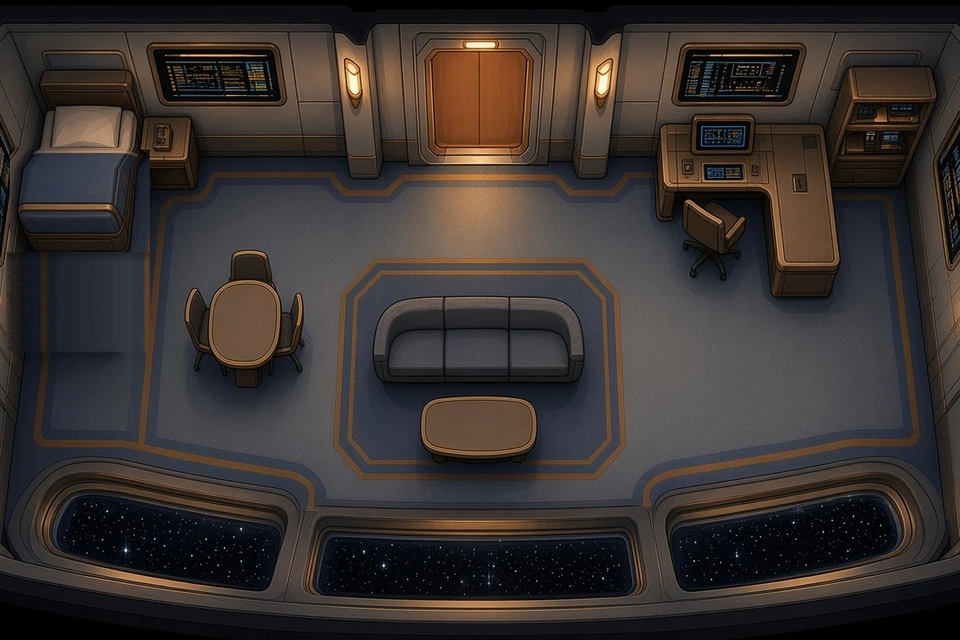
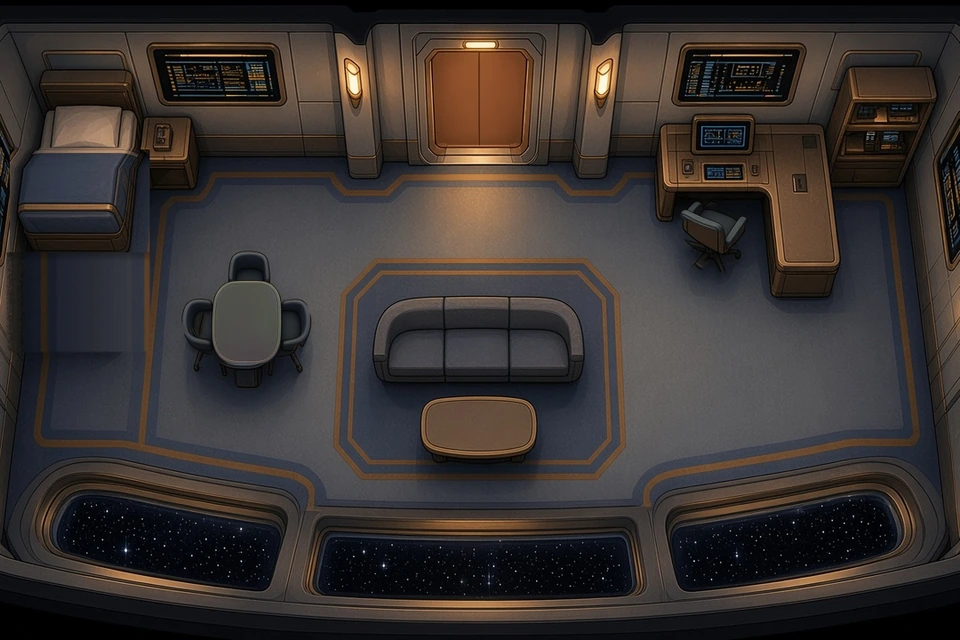
Build 12402cf: Lounge v2, Berthing v2 + lift door, cabins v5

Changed region(s): [[0.1875, 0.375, 0.3438, 0.5938], [0.6875, 0.3125, 0.7812, 0.375]]

diff --git a/js/data.js b/js/data.js
@@ -101,7 +101,7 @@ export const DECKS = {
   },
   berthing: {
     name: "Berthing", plate: "deck-berthing", glow: [0.80, 0.16, "255,196,110"],
-    lift: { x: 0.555, y: 0.89, mx: 0.555, my: 0.79 },
+    lift: { x: 0.612, y: 0.89, mx: 0.612, my: 0.79 },   // P22: the painted turbolift door seam on the Berthing v2 plate (x 1175/1920)
     // cleaned plate (decks_berthing_fix_v1): the starboard bench + alcove wall end now sit at y .665-.837 (block) and the floor
     // under them, with the opening (744,534,42,61) into the starboard bay, is walkable (base)
     base: [R(0.045, 0.385, 0.96, 0.515), R(0.735, 0.045, 0.955, 0.29), R(0.79, 0.29, 0.965, 0.905), R(0.44, 0.83, 0.80, 0.97),
@@ -127,12 +127,25 @@ export const DECKS = {
     name: "Mess & Bar", plate: "deck-lounge", glow: [0.42, 0.27, "255,190,110"],
     lift: { x: 0.145, y: 0.6625, mx: 0.145, my: 0.555 },
     base: [R(0.25, 0.20, 0.815, 0.945), R(0.035, 0.45, 0.235, 0.745), R(0.235, 0.615, 0.285, 0.685)],
-    blocks: [R(0.225, 0.205, 0.625, 0.36), R(0.25, 0.015, 0.645, 0.205), R(0.365, 0.415, 0.43, 0.485), R(0.495, 0.415, 0.56, 0.485),
-      R(0.62, 0.41, 0.685, 0.48), R(0.37, 0.585, 0.435, 0.655), R(0.515, 0.58, 0.58, 0.65), R(0.66, 0.575, 0.725, 0.645),
+    // Lounge v2 (sprites/deck_lounge_v2/out/lounge_spots.json): the six tables are blocks_norm_tables (chair carves included); bar, galley, planters kept
+    blocks: [R(0.225, 0.205, 0.625, 0.36), R(0.25, 0.015, 0.645, 0.205), R(0.3583, 0.3797, 0.4292, 0.525), R(0.4854, 0.3797, 0.5563, 0.525),
+      R(0.6125, 0.375, 0.6833, 0.5203), R(0.3656, 0.5516, 0.4365, 0.6969), R(0.5094, 0.5469, 0.5802, 0.6922), R(0.6552, 0.5422, 0.726, 0.6875),
       R(0.485, 0.73, 0.855, 0.955)],
     nodes: {
-      // standing high-top tables (v2 art): the Lt eats standing just north of the middle top-row table, facing it
-      mess: { name: "Mess Table", chip: "Mess Table", x: 0.525, y: 0.4125, mx: 0.521, my: 0.448, rest: 5, face: "down" },
+      // Lounge v2: six seated tables, every chair faces down (south). The mess node is table 2's chair (sit and eat); the other
+      // five are chip-less tap-only seats (ambient crew sit in them via spot.seat). x/y = stand spot, mx/my = hip.
+      mess: { name: "Mess Table", chip: "Mess Table", x: 0.5667, y: 0.4281, mx: 0.5208, my: 0.4156, rest: 5, face: "down",
+        seat: { at: [0.5208, 0.4156], face: "down", hip: { down: [0, 0], up: [0, 0] }, stand: [0.5667, 0.4281] } },
+      table1: { name: "Table 1", x: 0.4396, y: 0.4281, mx: 0.3937, my: 0.4156, face: "down",
+        seat: { at: [0.3937, 0.4156], face: "down", hip: { down: [0, 0], up: [0, 0] }, stand: [0.4396, 0.4281] } },
+      table3: { name: "Table 3", x: 0.6937, y: 0.4234, mx: 0.6479, my: 0.4109, face: "down",
+        seat: { at: [0.6479, 0.4109], face: "down", hip: { down: [0, 0], up: [0, 0] }, stand: [0.6937, 0.4234] } },
+      table4: { name: "Table 4", x: 0.4469, y: 0.6, mx: 0.401, my: 0.5875, face: "down",
+        seat: { at: [0.401, 0.5875], face: "down", hip: { down: [0, 0], up: [0, 0] }, stand: [0.4469, 0.6] } },
+      table5: { name: "Table 5", x: 0.5906, y: 0.5953, mx: 0.5448, my: 0.5828, face: "down",
+        seat: { at: [0.5448, 0.5828], face: "down", hip: { down: [0, 0], up: [0, 0] }, stand: [0.5906, 0.5953] } },
+      table6: { name: "Table 6", x: 0.6448, y: 0.5906, mx: 0.6906, my: 0.5781, face: "down",
+        seat: { at: [0.6906, 0.5781], face: "down", hip: { down: [0, 0], up: [0, 0] }, stand: [0.6448, 0.5906] } },
       bar: { name: "Bar Counter", chip: "Bar Counter", x: 0.4425, y: 0.3375, mx: 0.4425, my: 0.27, rest: 2.5 },
     },
   },
@@ -493,11 +506,17 @@ export const DECK_OCCL = {
   // end (y 533) has the opening below it (walkers in front) and the starboard corridor / bay beside it, so it stays uncut too.
   berthing: { items: [] },
   // Lounge (cut from deck-lounge): the south jamb of the lobby doorway. Lobby feet reach y ~472, past the jamb's top (~465), so it
-  // hides the feet of a walker behind it. Elsewhere the masks keep feet north of (or beside) the props: the six tables' carve
+  // hides the feet of a walker behind it (Lounge v2: the artist's hires cut, plus the six table fronts over the seated legs). Elsewhere the masks keep feet north of (or beside) the props: the six tables' carve
   // keeps feet off the tabletops (row 16 centres 4 px short of the top edge), the planters' leaves start ~12 px below the floor's
   // south edge, the bar stools and the lift-lobby pillar / door leaf are only ever beside a walker.
   lounge: { items: [
-    { id: "lobby_jamb", poly: [[204, 466], [212, 463], [238, 463], [242, 470], [242, 500], [204, 500]], baseY: 495 },
+    { id: "lobby_jamb", src: "fg-lounge-lobby_jamb", crop: true, box: [202, 459, 246, 502], baseY: 495 },
+    { id: "table1", src: "fg-lounge-table1", crop: true, box: [346, 273, 411, 315], baseY: 315, seats: ["table1"] },
+    { id: "table2", src: "fg-lounge-table2", crop: true, box: [468, 273, 533, 315], baseY: 315, seats: ["mess"] },
+    { id: "table3", src: "fg-lounge-table3", crop: true, box: [590, 270, 655, 312], baseY: 312, seats: ["table3"] },
+    { id: "table4", src: "fg-lounge-table4", crop: true, box: [353, 383, 418, 425], baseY: 425, seats: ["table4"] },
+    { id: "table5", src: "fg-lounge-table5", crop: true, box: [491, 380, 556, 422], baseY: 422, seats: ["table5"] },
+    { id: "table6", src: "fg-lounge-table6", crop: true, box: [631, 377, 696, 419], baseY: 419, seats: ["table6"] },
   ] },
   // Medical v2 (sprites/deck_medical_v2/out/fg-medical.json): the artist's cutouts (hires, lossless webp assets/fg-med-*.webp). The
   // office glass panes carry their glass at alpha 0.5 in the pixels (frames opaque), so the items draw at alpha 1: an item alpha
@@ -561,8 +580,8 @@ export const AMBIENT_NPCS = [
     id: "thelev", who: "andorian", rank: "Crewman", name: "Thelev sh'Zarath", short: "Thelev", pronoun: "she",
     deck: "lounge", speed: 0.056, start: "mess-east",   // speed: option A, 0.09 x FIG_K
     spots: [
-      { id: "mess-east", near: "mess", dx: 0.125, dy: 0.0, face: "down", action: "eat", t: [25, 45], w: 3 },    // next table east of the Lt's
-      { id: "mess-west", near: "mess", dx: -0.125, dy: 0.0, face: "down", action: "eat", t: [25, 45], w: 2 },   // next table west
+      { id: "mess-east", x: 0.6938, y: 0.4234, seat: "table3", face: "down", action: "eat", t: [25, 45], w: 3 },   // Lounge v2: table 3 chair (east of the Lt's)
+      { id: "mess-west", x: 0.4396, y: 0.4281, seat: "table1", face: "down", action: "eat", t: [25, 45], w: 2 },   // Lounge v2: table 1 chair (west)
       { id: "bar", near: "bar", dx: 0.10, dy: 0.0, face: "up", action: "talk", t: [20, 35], w: 3 },              // a stool along from the Lt's
       { id: "replicator", near: "bar", dx: 0.17, dy: 0.01, face: "up", action: "computer", t: [8, 14], w: 2 },  // replicator slot, bar's east end
       { id: "window", x: 0.70, y: 0.55, face: "right", action: null, t: [15, 30], w: 1 },                         // idle by the viewports
@@ -572,7 +591,7 @@ export const AMBIENT_NPCS = [
       // chat spot candidates per Lt node, tried in order; the first whose walkable snap moves it <= maxSnap design px wins.
       // mess: across the table from him (the side away from the bar; the Lt's mess spot sits between table and bar),
       // then beside him to the east. bar: a stool along to the east.
-      nodes: { mess: [{ dx: 0.0, dy: 0.125 }, { dx: 0.075, dy: 0.0 }], bar: [{ dx: 0.075, dy: 0.0 }] }, maxSnap: 28,
+      nodes: { mess: [{ dx: 0.02, dy: 0.035 }, { dx: 0.075, dy: 0.0 }], bar: [{ dx: 0.075, dy: 0.0 }] }, maxSnap: 28,
       joinRange: 360, chatRange: 150,      // design px: she comes over from up to joinRange; a chat breaks off past 1.4x chatRange
       chatDur: [18, 30], lingerT: [4, 8],  // s of talking per chat; s she lingers after he walks off
       lineCooldown: 90,

diff --git a/tools/lounge-shots.js b/tools/lounge-shots.js
@@ -1,0 +1,51 @@
+// Lounge v2 (sprites/deck_lounge_v2): seated tables, chair carves, mess routines. At 390x844, 844x390, 1280x800:
+// checks every chair carve + table block is off the walk grid, every stand spot is walkable, the Lt sits at the mess (table 2),
+// Thelev (mess-east/west) and the steward (table-west, table 4) reach their seats, and walkers' sampled feet never enter a carve.
+// shots/lounge-v2-<size>.png. NODE_PATH=/workspace/pwtools/node_modules node tools/lounge-shots.js [base]
+const { chromium } = require('playwright-core');
+const fs = require('fs');
+const BASE = process.argv[2] || 'http://127.0.0.1:8765/';
+const OUT = __dirname + '/../shots/';
+const sleep = ms => new Promise(r => setTimeout(r, ms));
+const SP = JSON.parse(fs.readFileSync(__dirname + '/../assets/src/deck_lounge_v2/lounge_spots.json'));
+(async () => {
+  const b = await chromium.launch({ executablePath: '/usr/bin/google-chrome', args: ['--no-sandbox', '--use-gl=swiftshader', '--enable-unsafe-swiftshader'] });
+  const rep = { errors: {}, info: {} }; let fail = 0;
+  for (const [w, h, m] of [[390, 844, true], [844, 390, true], [1280, 800, false]]) {
+    const tag = `${w}x${h}`, errs = [], I = rep.info[tag] = {};
+    const c = await b.newContext({ viewport: { width: w, height: h }, deviceScaleFactor: m ? 2 : 1, isMobile: m, hasTouch: m });
+    const p = await c.newPage(); p.on('pageerror', e => errs.push(e.message)); p.on('console', x => { if (x.type() === 'error') errs.push(x.text()); });
+    await p.goto(BASE + '?reset=1'); await p.waitForFunction(() => window.__T && document.querySelector('#loading').classList.contains('done'), null, { timeout: 60000 }); await sleep(600);
+    await p.evaluate(() => { window.__noSave = true; document.querySelectorAll('.modal:not(.hidden)').forEach(m => m.classList.add('hidden')); });
+    // grid: carves blocked (sample 3x3 inside each), stand spots walkable
+    I.grid = await p.evaluate(async (seats) => { const P = await import('/js/path.js'); const bad = [];
+      for (const [id, s] of Object.entries(seats)) { const [x0, y0, x1, y1] = s.carve_px;
+        for (const fx of [0.25, 0.5, 0.75]) for (const fy of [0.25, 0.5, 0.75]) { const x = (x0 + (x1 - x0) * fx) / 960, y = (y0 + (y1 - y0) * fy) / 640; if (P.isWalkable('lounge', x, y)) bad.push(id + ' carve walkable ' + [Math.round(x * 960), Math.round(y * 640)]); }
+        if (!P.isWalkable('lounge', s.stand_px[0] / 960, s.stand_px[1] / 640)) bad.push(id + ' stand blocked'); }
+      return bad; }, SP.seats);
+    fail += I.grid.length;
+    const L = (deck, x, y) => p.evaluate(([deck, x, y]) => { const Lt = __T.G.lt; Lt.deck = deck; Lt.lift = null; Lt.x = x; Lt.y = y; Lt.mode = 'idle'; Lt.path = null; Lt.intent = null; __T.cam.snap = true; __T.cam.manualT = 0; }, [deck, x, y]);
+    await L('lounge', 0.30, 0.56);
+    // Lt walks to the mess and sits; Thelev to table 3 (mess-east), the steward (if rostered) to table 4; sample walker feet vs carves
+    const who = await p.evaluate(() => { __T.sendUse('mess'); const on = __T.ambient.filter(n => n.deck === 'lounge');
+      const th = on.find(n => n.cfg && n.cfg.id === 'thelev') || on[0]; const st = on.find(n => n !== th && n.cfg.spots.some(s => s.seat === 'table4')); if (st) st.who = 'crew-blue';   // test: a sheet with seat art (tint-base crew have none and stand)
+      const out = []; if (th) { __T.ambientTo(th.occId || th.slot, 'mess-east'); out.push([__T.ambient.indexOf(th), 'table3']); } if (st) { __T.ambientTo(st.occId || st.slot, 'table-west'); out.push([__T.ambient.indexOf(st), 'table4']); } return out; });
+    I.who = who;
+    I.through = await p.evaluate(([seats, who]) => new Promise(res => { const hits = new Set(); const t0 = performance.now();
+      const carves = Object.entries(seats).map(([id, s]) => [id, s.carve_px]);
+      const f = () => { const ppl = [__T.G.lt, ...__T.ambient.filter(n => n.deck === 'lounge' && n.x !== null)];
+        for (const q of ppl) { if (q.mode !== 'walk') continue; const x = q.x * 960, y = q.y * 640; for (const [id, r] of carves) if (x > r[0] + 2 && x < r[2] - 2 && y > r[1] + 2 && y < r[3] - 2) hits.add((q.id || 'lt') + '@' + id); }
+        const done = __T.G.lt.mode === 'use' && who.every(([i]) => ['dwell', 'chat'].includes(__T.ambient[i].mode));
+        if (!done && performance.now() - t0 < 60000) setTimeout(f, 100); else res([...hits]); }; f(); }), [SP.seats, who]);
+    fail += I.through.length;
+    I.state = await p.evaluate(async (who) => { const A = await import('/js/npc-ambient.js'); const Lt = __T.G.lt;
+      return { lt: [Lt.node, Lt.mode], npcs: who.map(([id, seat]) => { const n = __T.ambient[id]; const sn = A.seatedOn(n); return [n.id || n.cfg.id, seat, sn ? sn.id : null, n.mode, n.who, Math.round(n.x * 960), Math.round(n.y * 640)]; }) }; }, who);
+    if (I.state.lt[0] !== 'mess' || I.state.lt[1] !== 'use') fail++;
+    for (const [id, seat, sat, mode] of I.state.npcs) if (!['dwell', 'chat'].includes(mode) || (mode === 'dwell' && sat !== seat)) fail++;
+    await p.screenshot({ path: OUT + `lounge-v2-${tag}.png` });
+    rep.errors[tag] = errs; fail += errs.length; await c.close();
+  }
+  fs.writeFileSync(OUT + 'lounge-shots.json', JSON.stringify(rep, null, 1));
+  console.log(JSON.stringify(rep)); console.log(fail ? 'LOUNGE FAIL ' + fail : 'LOUNGE PASS');
+  await b.close();
+})();

diff --git a/tools/doors-shots.js b/tools/doors-shots.js
@@ -35,7 +35,19 @@ const sleep = ms => new Promise(r => setTimeout(r, ms));
     // starboard lift too, then walk away: port closes after delay + close time
     await place('bridge', 0.7854, 0.2625); await sleep(1500);
     I.stbd = await state(); if (I.stbd[1].state !== 'open' || I.stbd[0].state !== 'closed') fail++;
-    await place('berthing', 0.5, 0.6); await sleep(1500); await p.screenshot({ path: OUT + `berthing-v3-${tag}.png` });
+    // Berthing lift door (deck_berthing_v2b): closed with the Lt away, mid-slide stepping onto the lift spot, open on it, closes after
+    const bstate = () => p.evaluate(async () => { const D = await import('/js/render/doors.js'); return D.doorState('berthing'); });
+    await place('berthing', 450 / 960, 600 / 640); await sleep(1500);
+    I.bClosed = await bstate(); await p.screenshot({ path: OUT + `berthing-door-closed-${tag}.png` }); if (I.bClosed[0].state !== 'closed') fail++;
+    await place('berthing', 0.612, 0.89);
+    I.bMid = await p.evaluate(async () => { const D = await import('/js/render/doors.js');
+      return new Promise(res => { let n = 0; const f = () => { const s = D.doorState('berthing')[0]; if ((s.open > 0.3 && s.open < 0.75) || ++n > 120) { __T.app.paused = true; res(D.doorState('berthing')); } else requestAnimationFrame(f); }; requestAnimationFrame(f); }); });
+    await p.screenshot({ path: OUT + `berthing-door-mid-${tag}.png` }); if (!(I.bMid[0].open > 0.3 && I.bMid[0].open < 0.75)) fail++;
+    await p.evaluate(() => { __T.app.paused = false; }); await sleep(900);
+    I.bOpen = await bstate(); await p.screenshot({ path: OUT + `berthing-door-open-${tag}.png` }); if (I.bOpen[0].state !== 'open') fail++;
+    await place('berthing', 0.612, 0.79); await sleep(500); I.bInner = await bstate(); if (I.bInner[0].state !== 'open') fail++;
+    await place('berthing', 0.5, 0.6); await sleep(1800); I.bAfter = await bstate(); if (I.bAfter[0].state !== 'closed') fail++;
+    await p.screenshot({ path: OUT + `berthing-v3-${tag}.png` });
     I.berthPlate = await p.evaluate(async () => { const A = await import('/js/assets.js'); const im = A.IMG['deck-berthing']; return im ? [im.width, im.height] : null; });
     rep.errors[tag] = errs; fail += errs.length; await c.close();
   }

diff --git a/tools/p22-berthing-lift.js b/tools/p22-berthing-lift.js
@@ -1,0 +1,14 @@
+const { chromium } = require('playwright-core');
+(async () => { const b = await chromium.launch({ executablePath: '/usr/bin/google-chrome', args: ['--no-sandbox', '--use-gl=swiftshader', '--enable-unsafe-swiftshader'] });
+const out = {};
+for (const [w, h, m] of [[390, 844, 1], [844, 390, 1], [1280, 800, 0]]) { const tag = w + 'x' + h;
+const p = await (await b.newContext({ viewport: { width: w, height: h }, isMobile: !!m, hasTouch: !!m, deviceScaleFactor: m ? 2 : 1 })).newPage(); const errs = []; p.on('pageerror', e => errs.push(e.message)); p.on('console', x => { if (x.type() === 'error') errs.push(x.text()); });
+await p.goto('http://127.0.0.1:8765/?reset=1&debug=1&walk=1'); await p.waitForFunction(() => window.__T && document.querySelector('#loading').classList.contains('done'), null, { timeout: 60000 });
+const r = await p.evaluate(async () => { window.__noSave = true; document.querySelectorAll('.modal:not(.hidden)').forEach(m => m.classList.add('hidden'));
+  const P = await import('/js/path.js'), { DECKS } = await import('/js/data.js'); const lf = DECKS.berthing.lift, Lt = __T.G.lt; Lt.deck = 'berthing'; Lt.lift = null; Lt.x = 0.45; Lt.y = 0.6; Lt.mode = 'idle'; __T.cam.snap = true;
+  return { walkM: P.isWalkable('berthing', lf.mx, lf.my), path: !!P.findPath('berthing', 0.45, 0.6, lf.mx, lf.my) }; });
+await new Promise(r => setTimeout(r, 800));
+await p.evaluate(async () => { const { DECKS } = await import('/js/data.js'); const lf = DECKS.berthing.lift, Lt = __T.G.lt; Lt.x = lf.mx; Lt.y = lf.my + 0.01; __T.cam.snap = true; });
+await new Promise(r => setTimeout(r, 1200)); if (w === 1280) await p.screenshot({ path: 'shots/p22-berthing-lift-1280x800.png' });
+out[tag] = { ...r, errs }; await p.close(); }
+console.log(JSON.stringify(out)); await b.close(); })();

diff --git a/tools/berthing-walk.js b/tools/berthing-walk.js
@@ -1,0 +1,10 @@
+const { chromium } = require('playwright-core');
+(async () => { const b = await chromium.launch({ executablePath: '/usr/bin/google-chrome', args: ['--no-sandbox', '--use-gl=swiftshader', '--enable-unsafe-swiftshader'] });
+const p = await (await b.newContext({ viewport: { width: 1280, height: 800 } })).newPage(); const errs = []; p.on('pageerror', e => errs.push(e.message)); p.on('console', x => { if (x.type() === 'error') errs.push(x.text()); });
+await p.goto('http://127.0.0.1:8765/?reset=1&debug=1&walk=1'); await p.waitForFunction(() => window.__T && document.querySelector('#loading').classList.contains('done'), null, { timeout: 60000 });
+const r = await p.evaluate(async () => { window.__noSave = true; document.querySelectorAll('.modal:not(.hidden)').forEach(m => m.classList.add('hidden'));
+  const P = await import('/js/path.js'), { DECKS } = await import('/js/data.js'); const Lt = __T.G.lt; Lt.deck = 'berthing'; Lt.lift = null; Lt.x = DECKS.berthing.lift.mx; Lt.y = DECKS.berthing.lift.my; Lt.mode = 'idle'; __T.cam.snap = true;
+  const out = {}; for (const [id, n] of Object.entries(DECKS.berthing.nodes)) out[id] = !!P.findPath('berthing', Lt.x, Lt.y, n.x, n.y) && P.isWalkable('berthing', ...P.cellCenter(...P.nearestWalkable('berthing', n.x, n.y)));
+  __T.sendUse('bunk'); return out; });
+await new Promise(r => setTimeout(r, 6000)); await p.screenshot({ path: 'shots/berthing-v2-walk-1280x800.png' });
+console.log(JSON.stringify({ paths: r, errs })); await b.close(); })();

diff --git a/js/doors-data.js b/js/doors-data.js
@@ -16,5 +16,14 @@ export const DECK_DOORS = {
         { img: "door-bridge-turbolift-2-left", rect: [711, 38, 762, 141], slide: [-42.3, -9.3] },
         { img: "door-bridge-turbolift-2-right", rect: [749, 47, 796, 150], slide: [34.7, 7.7] }] },
   ],
+  // Berthing (sprites/deck_berthing_v2b/out/doors_berthing.json): front-on lift door, panels slide straight left/right. The
+  // artist's trigger centre (587, 573) moved north to (587, 560) so the doors stay open with margin while the Lt stands on the
+  // lift's inner spot (DECKS.berthing.lift mx/my = 587, 506: 54 px) and on its floor spot (x/y = 587, 570).
+  berthing: [
+    { id: "turbolift", name: "lift_berthing", clip: [[528, 459.5], [645.5, 459.5], [645.5, 553], [528, 553]], trigger: { c: [587, 560], r: 70 }, timing: T,
+      panels: [
+        { img: "door-berthing-turbolift-left", rect: [528, 459.5, 587.5, 553], slide: [-59.5, 0] },
+        { img: "door-berthing-turbolift-right", rect: [587.5, 459.5, 645.5, 553], slide: [58, 0] }] },
+  ],
 };
 export const DOOR_IMAGES = Object.values(DECK_DOORS).flatMap(L => L.flatMap(d => d.panels.map(p => p.img)));

diff --git a/js/crew.js b/js/crew.js
@@ -130,7 +130,7 @@ const USE_STATUS = {
   shield: "At the <b>Shield Console</b> — recharging emitters.",
   torpbay: "In the <b>Torpedo Bay</b> — replicating torpedoes.",
   biobed: "On the <b>Biobed</b> — the doctor's scanner does its work. Energy recovering.",
-  mess: "Eating at the <b>Mess Table</b> — standing at a high-top, trading mess-hall talk. Energy recovering.",
+  mess: "Eating at the <b>Mess Table</b> — seated at a table, trading mess-hall talk. Energy recovering.",
   bunk: "Off his feet in <b>Berthing</b> — rack time in his own bunk.",
   rack: "Asleep in <b>his own quarters</b> — the best rest aboard.",
   locker: "At the <b>Parts Locker</b> — fabricating spares from stock.",

diff --git a/js/roster.js b/js/roster.js
@@ -56,7 +56,7 @@ const BE = {
 };
 const LO = {
   planters: S("hydroponics", 0.56, 0.69, "down", "computer", [30, 60], 3), plantersE: S("hydroponics-east", 0.70, 0.69, "down", "computer", [25, 50], 2),
-  windowS: S("viewport", 0.70, 0.55, "right", null, [15, 30], 1), tableW: S("table-west", 0.33, 0.56, "down", "eat", [25, 45], 2),
+  windowS: S("viewport", 0.70, 0.55, "right", null, [15, 30], 1), tableW: { ...S("table-west", 0.4469, 0.60, "down", "eat", [25, 45], 2), seat: "table4" },   // Lounge v2: table 4 chair
   galley: S("galley-pass", 0.30, 0.36, "up", "computer", [20, 40], 3), barEnd: S("bar-west", 0.33, 0.35, "up", "talk", [20, 35], 2),
 };
 export const CREW_ROSTER = [
